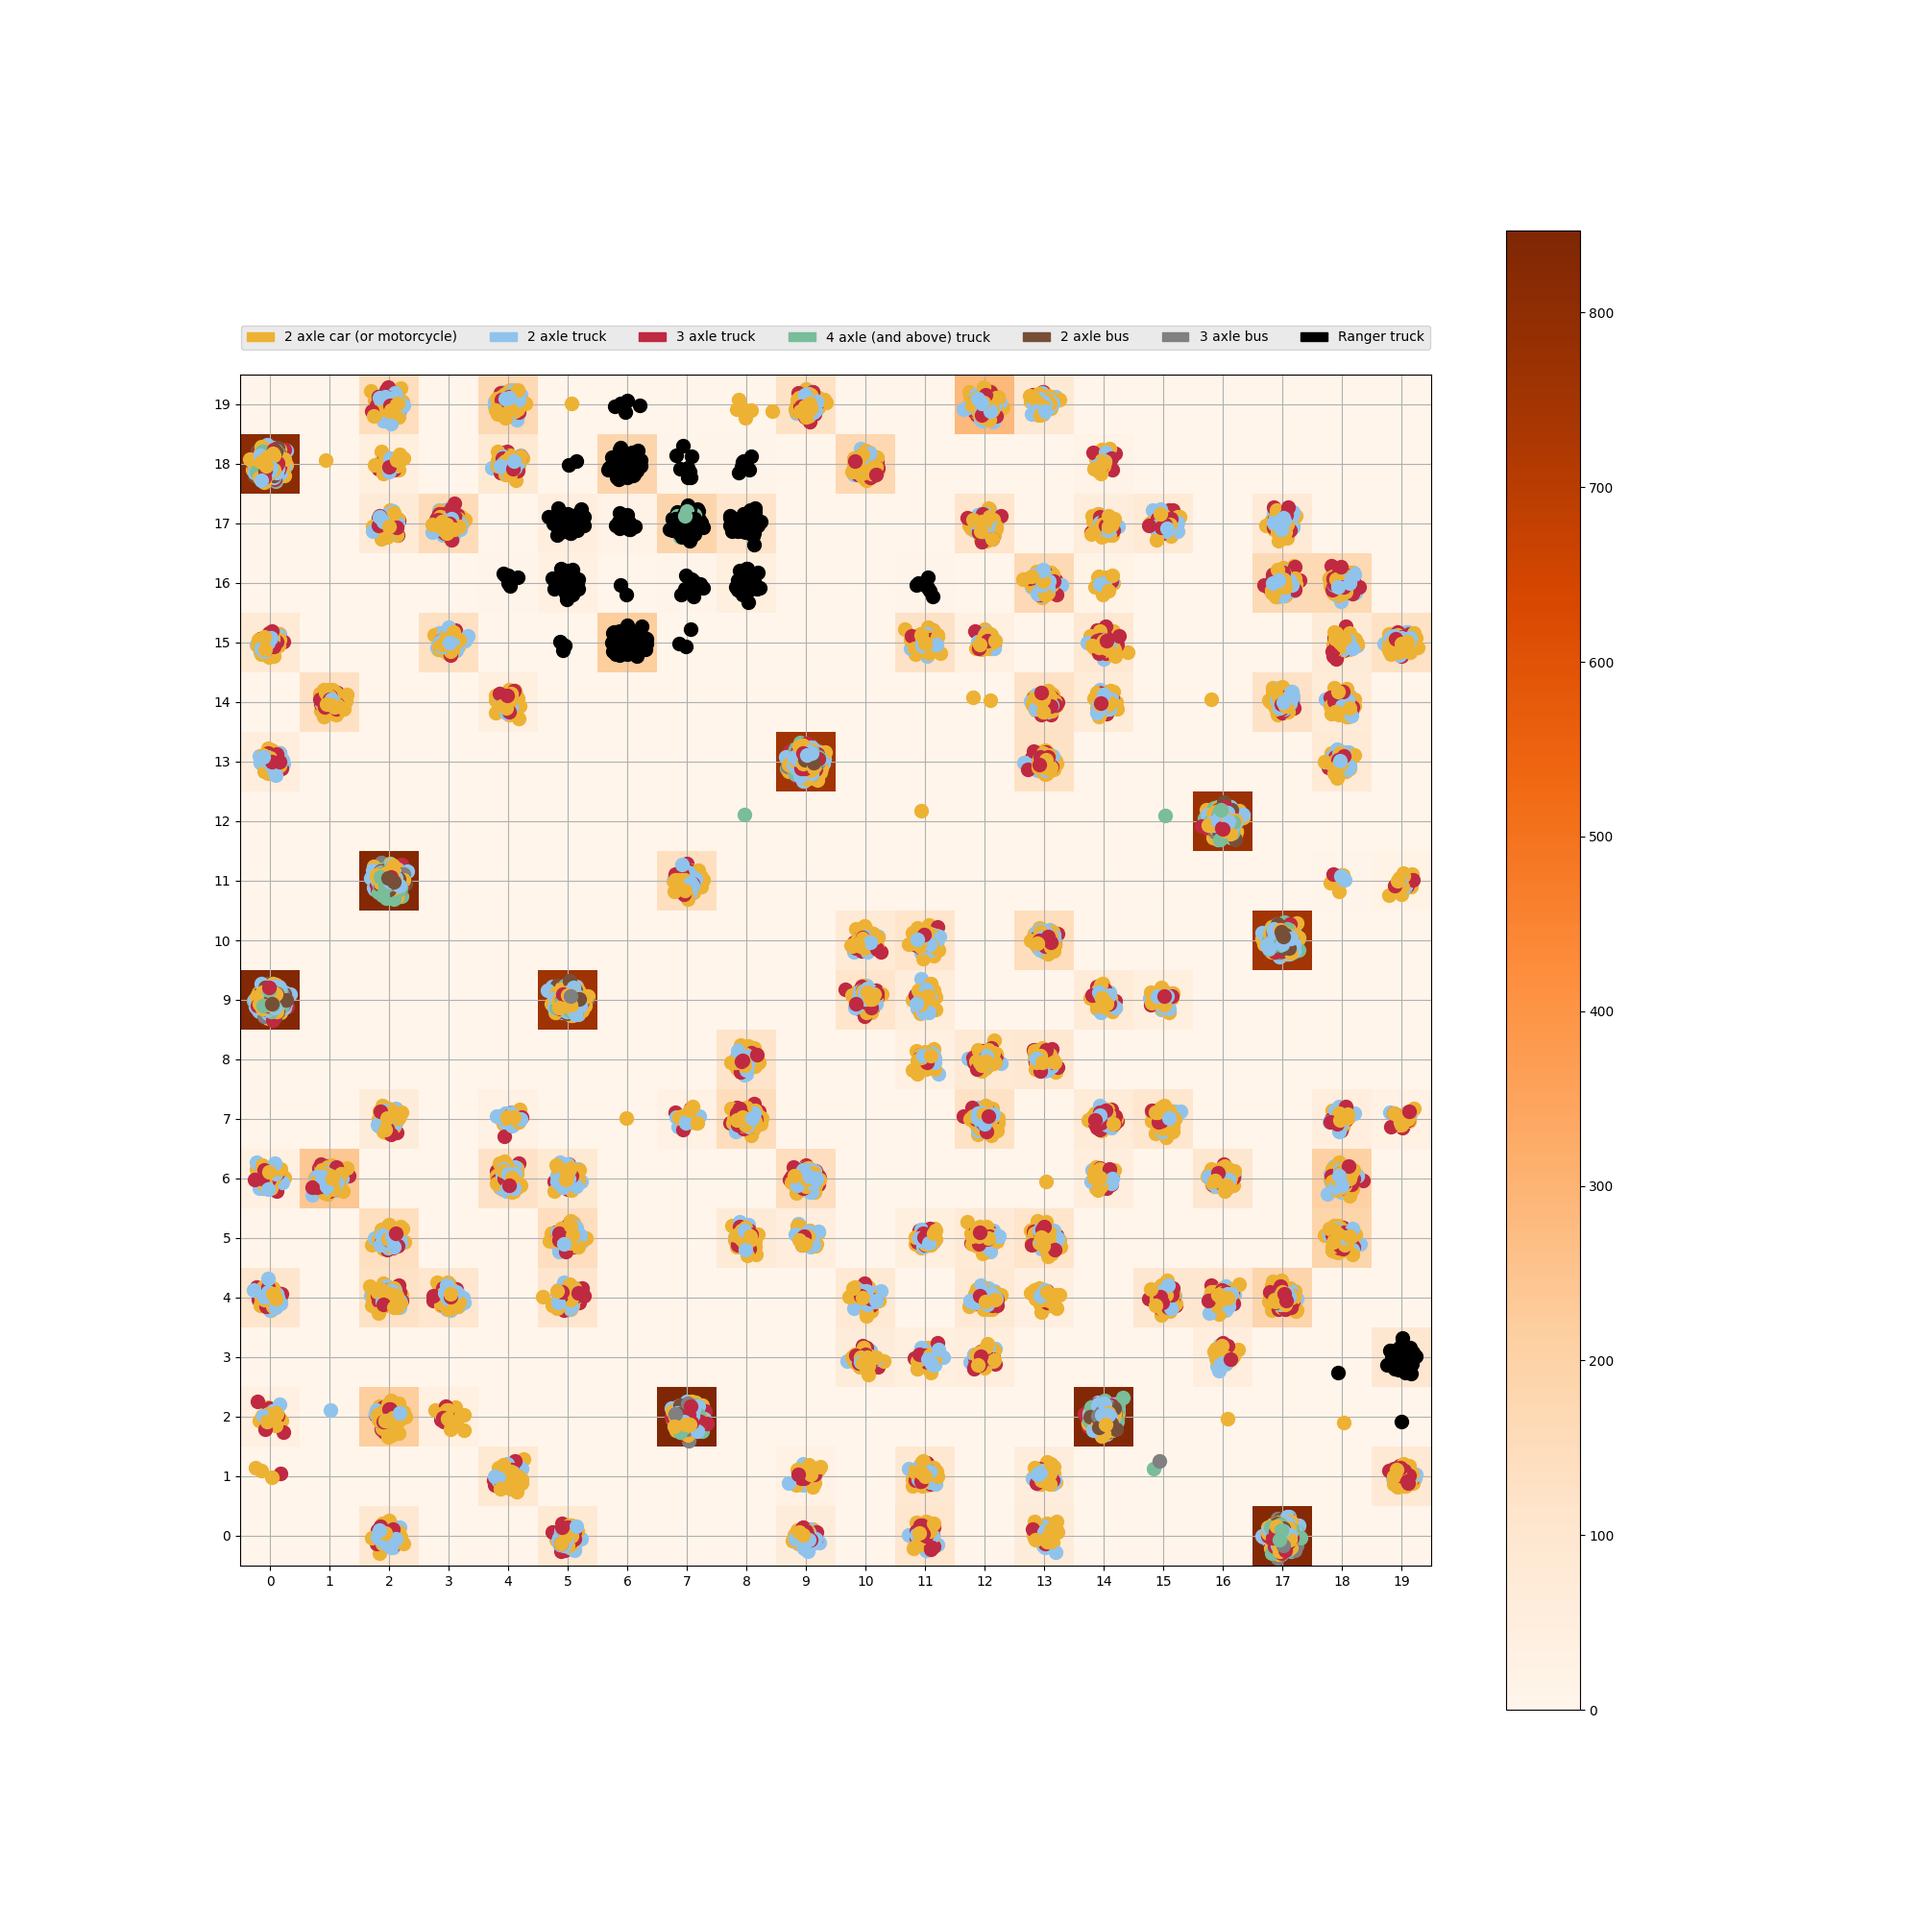
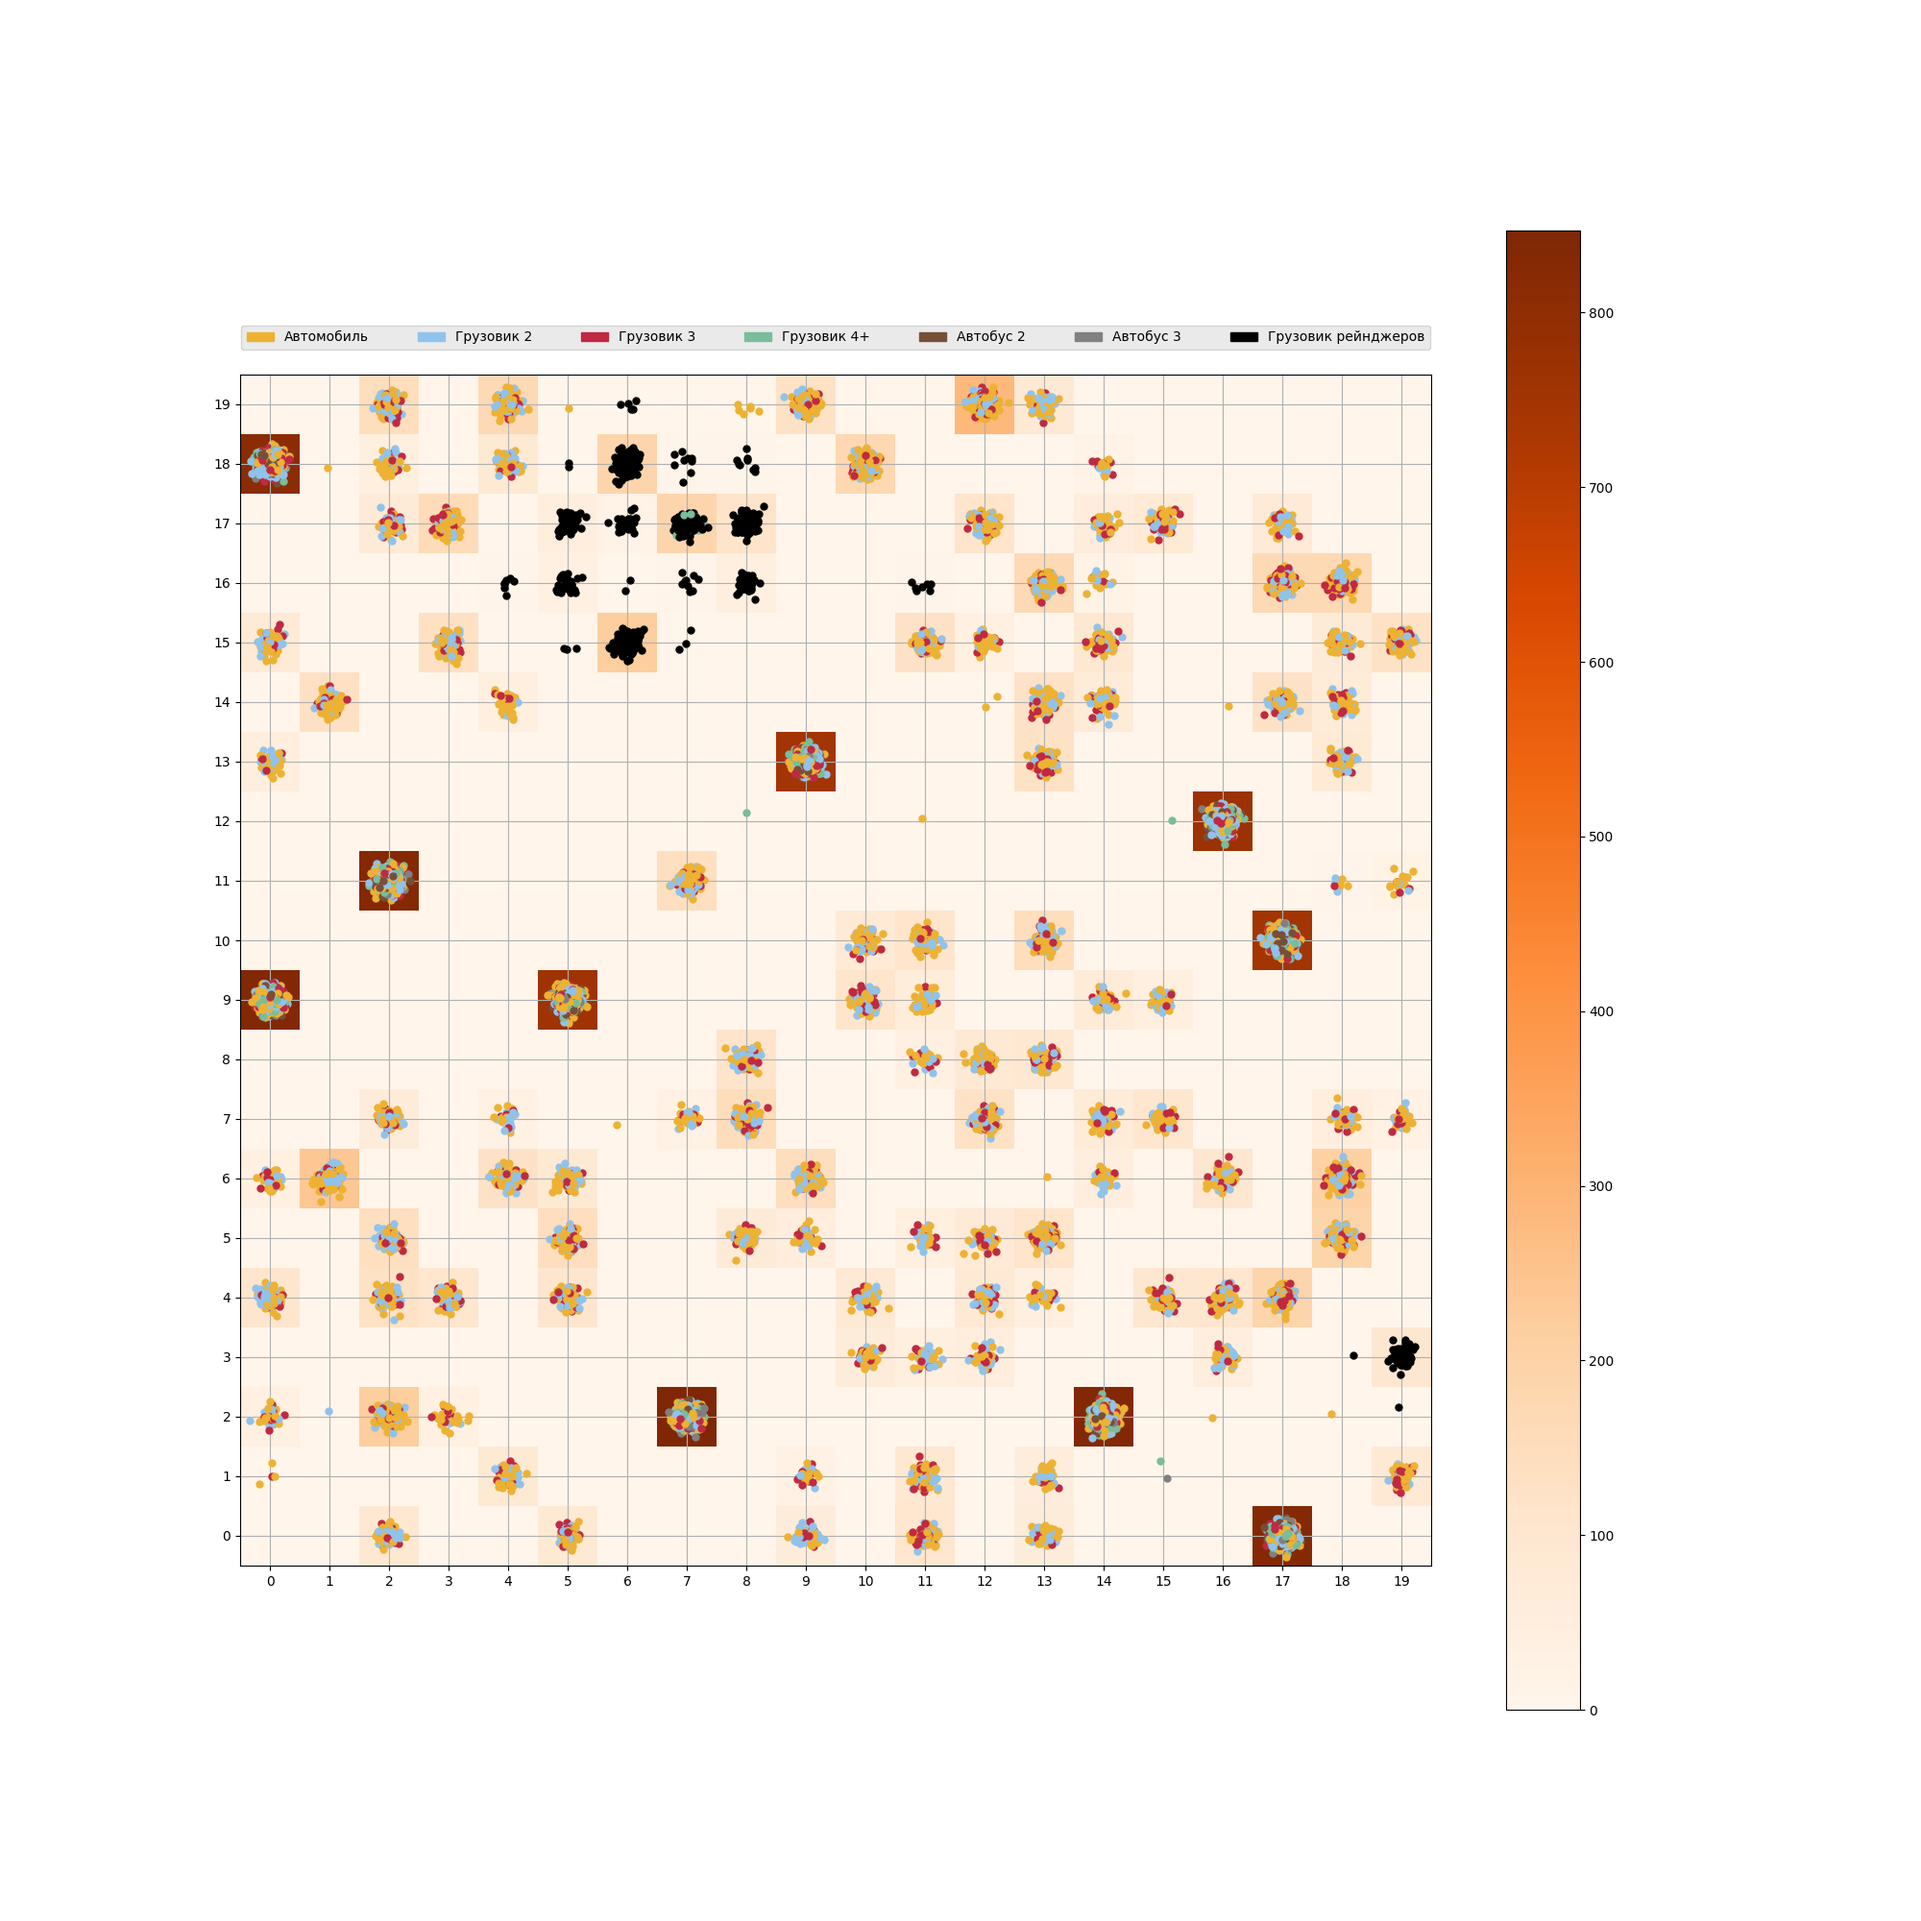
Утилита для анализа алгоритма

diff --git a/tool.py b/tool.py
@@ -3,21 +3,20 @@ import numpy as np
 from matplotlib.backends.backend_tkagg import FigureCanvasTkAgg
 from SOM import SOM
 
-# define the window layout
-layout = [[sg.Text('SOM for VAST 2017 MC1', font='Any 18')],
-          [sg.Text('Path to data'), sg.FileBrowse(key='-Path-data-')],
-          [sg.Text('Path to target'), sg.FileBrowse(key='-Path-target-')],
-          [sg.Text('SOM size:'), sg.InputText('20', key='-width-', size=(2, 1)),
+layout = [[sg.Text('SOM для VAST 2017 MC1', font='Any 18')],
+          # [sg.Text('Path to data'), sg.FileBrowse('output.txt', key='-Path-data-')],
+          # [sg.Text('Path to target'), sg.FileBrowse('targets.txt', key='-Path-target-')],
+          [sg.Text('Размер сетки SOM:'), sg.InputText('20', key='-width-', size=(2, 1)), sg.Text('на'),
            sg.InputText('20', key='-height-', size=(2, 1))],
-          [sg.Text('Number of epochs'), sg.InputText(10000, key='-epochs-', size=(6, 1))],
-          [sg.Text('Type of decay'), sg.Radio('Hill', 'DECAY', True, key='hill'), sg.Radio('Linear', 'DECAY', key='linear')],
-          [sg.Button('Start SOM', key='-start-'), sg.Button('Exit')]
+          [sg.Text('Количество эпох'), sg.InputText(10000, key='-epochs-', size=(6, 1))],
+          [sg.Text('Тип "Decay"'), sg.Radio('hill', 'DECAY', True, key='hill'),
+           sg.Radio('linear', 'DECAY', key='linear')],
+          [sg.Button('Начать расчет', key='-start-'), sg.Button('Выход', key="Exit")]
           ]
 
 # create the form and show it without the plot
-window = sg.Window('SOM for VAST 2017 MC1',
+window = sg.Window('Аналитический инструмент для SOM',
                    layout, finalize=True)
-
 
 
 def draw_figure(canvas, figure, loc=(0, 0)):
@@ -27,55 +26,52 @@ def draw_figure(canvas, figure, loc=(0, 0)):
     return figure_canvas_agg
 
 
-while (True):
+while True:
     event, values = window.read()
     if event == '-start-':
-        data = np.loadtxt(values['-Path-data-'], delimiter=';', usecols=range(40))
+        data = np.loadtxt('output.txt', delimiter=';', usecols=range(40))
 
         som = SOM(int(values['-width-']), int(values['-height-']))  # initialize the SOM
-        print(values[5])
-        som.fit(data, int(values['-epochs-']))  # fit the SOM for 10000 epochs, save the error every 100 steps
-        # som.plot_error_history(filename='images/som_error.png')  # plot the training error history
+        if values['hill']:
+            som.fit(data, int(values['-epochs-']), decay='hill')
+        if values['linear']:
+            som.fit(data, int(values['-epochs-']), decay='linear')
 
-        targets = np.loadtxt(values['-Path-target-'])
+        targets = np.loadtxt('target.txt', dtype='int')
         targets = targets - 1
-        names = ['2 axle car (or motorcycle)',
-                 '2 axle truck',
-                 '3 axle truck',
-                 '4 axle (and above) truck',
-                 '2 axle bus',
-                 '3 axle bus',
-                 'Ranger truck'
+        names = ['Автомобиль',
+                 'Грузовик 2',
+                 'Грузовик 3',
+                 'Грузовик 4+',
+                 'Автобус 2',
+                 'Автобус 3',
+                 'Грузовик рейнджеров'
                  ]
-        # names = ['Campings', 'Entrances', 'Gates', 'General gates', 'Ranger base', 'Ranger stops']
-        # now visualize the learned representation with the class labels
-        fig1 = som.plot_point_map_gui(data, targets, names)
-        fig2 = som.plot_class_density_gui(data, targets, t=0, name='Vehicles')
-        # som.plot_distance_map(filename='images/distance_map.png')  # plot the distance map after training
-        fig1.set_size_inches(6, 6)
-        fig2.set_size_inches(6, 6)
+        codes = ['1', '2', '3', '4', '5', '6', '2P']
+        fig1 = som.plot_point_map_gui(data, targets, codes)
+        # fig2 = som.plot_class_density_gui(data, targets, t=0, name=names[0])
+        fig1.set_size_inches(7, 7)
+        # fig2.set_size_inches(6, 6)
         figure1_x, figure1_y, figure1_w, figure1_h = fig1.bbox.bounds
-        figure_x, figure2_y, figure2_w, figure2_h = fig2.bbox.bounds
+        # figure_x, figure2_y, figure2_w, figure2_h = fig2.bbox.bounds
 
-        layout2 = [[sg.Text('Density SOM', font='Any 18')],
-                   [sg.Canvas(size=(figure1_w, figure1_h), key='canvas_density'), sg.Canvas(size=(figure2_w, figure2_h), key='canvas_som')],
+        layout2 = [[sg.Canvas(size=(figure1_w, figure1_h), key='canvas_som')],
                    [sg.OK('OK'), sg.Button('Print result', key='-print-')]
                    ]
 
-        # create the form and show it without the plot
         window2 = sg.Window('SOM Result',
                             layout2, finalize=True)
 
-        fig_canvas_agg = draw_figure(window2['canvas_density'].TKCanvas, fig2)
+        # fig_canvas_agg = draw_figure(window2['canvas_density'].TKCanvas, fig2)
         fig_canvas_agg = draw_figure(window2['canvas_som'].TKCanvas, fig1)
-        while (True):
+        while True:
             event2, values2 = window2.read()
             if event2 == 'OK':
                 window2.close()
                 break
             if event2 == '-print-':
-                som.plot_point_map(data, targets, ['Vehicles'], filename='images/som.png')
-                som.plot_class_density(data, targets, t=0, name='Vehicles', filename='images/density.png')
+                som.plot_point_map(data, targets, names, filename='images/som.png')
+                # som.plot_class_density(data, targets, t=0, name='Vehicles', filename='images/density.png')
 
     if event == 'Exit':
         window.close()

diff --git a/SOM.py b/SOM.py
@@ -92,7 +92,7 @@ class SOM(object):
               (self.epoch, w[0], w[1], self.sigmas[self.epoch], self.alphas[self.epoch]))
         self.epoch = self.epoch + 1
 
-    def fit(self, data, epochs=0, save_e=False, interval=1000, decay='hill'):
+    def fit(self, data, epochs=0, save_e=False, interval=10000, decay='hill'):
         """ Train the SOM on the given data for several iterations
 
         :param data: {numpy.ndarray} data to train on
@@ -274,7 +274,7 @@ class SOM(object):
                 c = colors[targets[cnt]]
             w = self.winner(xx)
             ax.plot(w[1] + .5 + 0.1 * np.random.randn(1), w[0] + .5 + 0.1 * np.random.randn(1),
-                    markers[targets[cnt]], color=c, markersize=10)
+                    markers[targets[cnt]], color=c, markersize=5)
 
         ax.set_aspect('equal')
         ax.set_xlim([0, self.x])
@@ -341,7 +341,7 @@ class SOM(object):
                 c = colors[targets[cnt]]
             w = self.winner(xx)
             ax.plot(w[1] + .5 + 0.1 * np.random.randn(1), w[0] + .5 + 0.1 * np.random.randn(1),
-                    markers[targets[cnt]], color=c, markersize=3)
+                    markers[targets[cnt]], color=c, markersize=1)
 
         ax.set_aspect('equal')
         ax.set_xlim([0, self.x])

diff --git a/ClusterFind.py b/ClusterFind.py
@@ -5,20 +5,20 @@ import DataPrep as dp
 data = np.loadtxt('output.txt', delimiter=';', usecols=range(40))
 
 som = SOM(20, 20)  # initialize the SOM
-som.fit(data, 10000)  # fit the SOM for 10000 epochs, save the error every 100 steps
+som.fit(data, 10000, decay='linear')
 # som.plot_error_history(filename='images/som_error.png')  # plot the training error history
 
 targets = np.loadtxt('target.txt', dtype='int')
 
 targets = targets - 1
 
-names = ['2 axle car (or motorcycle)',
-         '2 axle truck',
-         '3 axle truck',
-         '4 axle (and above) truck',
-         '2 axle bus',
-         '3 axle bus',
-         'Ranger truck'
+names = ['Автомобиль',
+         'Грузовик 2',
+         'Грузовик 3',
+         'Грузовик 4+',
+         'Автобус 2',
+         'Автобус 3',
+         'Грузовик рейнджеров'
          ]
 # now visualize the learned representation with the class labels
 som.plot_point_map(data, targets, names, filename='images/som.png')
